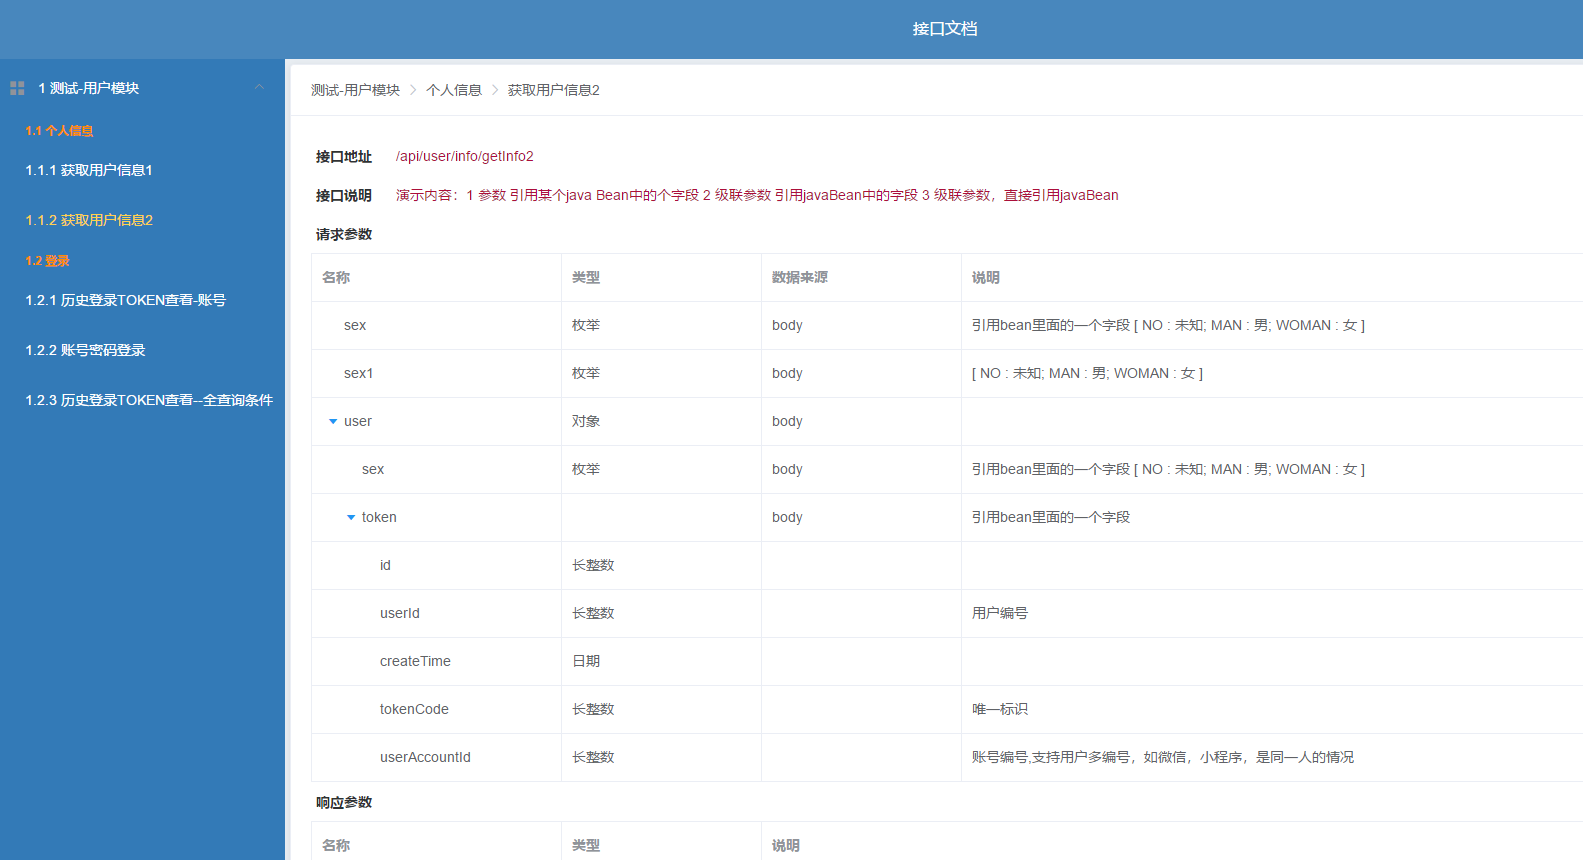
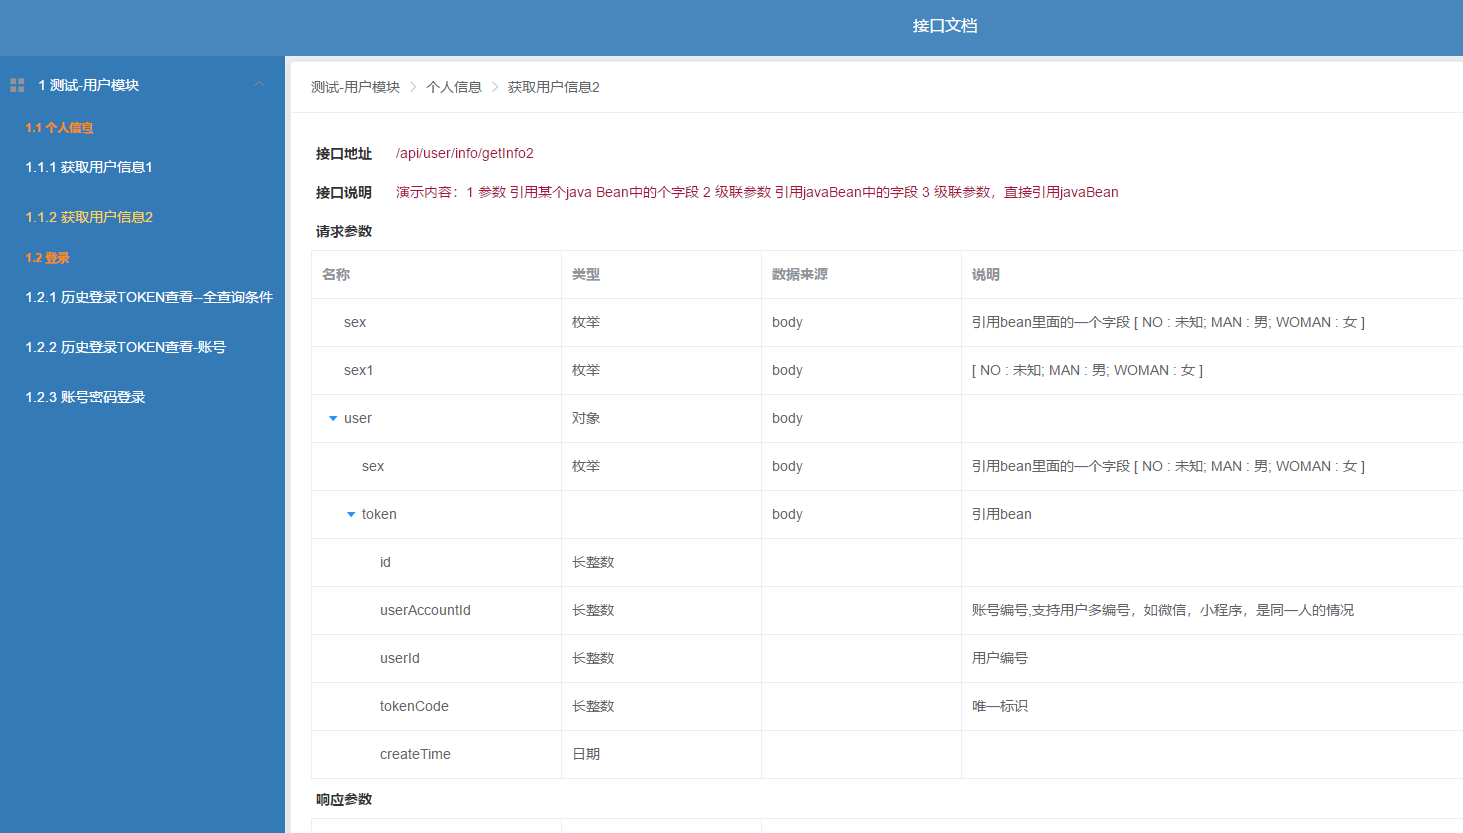
md修改

diff --git a/japi-demo/src/main/java/com/pm/biz/login/controller/UserController.java b/japi-demo/src/main/java/com/pm/biz/login/controller/UserController.java
@@ -32,7 +32,7 @@ public class UserController {
             , params = {@ApiParam(value = "$sex", type = UserInfo.class, note = "引用bean里面的一个字段")
             , @ApiParam(value = "sex1 ", type = UserSex.class)
             , @ApiParam(value = "user.$sex", type = UserInfo.class, note = "引用bean里面的一个字段")
-            , @ApiParam(value = "user.token", type = UserToken.class, note = "引用bean里面的一个字段")})
+            , @ApiParam(value = "user.token", type = UserToken.class, note = "引用bean")})
     @PostMapping(value = "/getInfo2")
     public ResultEntity<Long[]> getInfo2(@RequestBody JSONObject jsonObject) throws Exception {
         return ResultEntity.success();

diff --git a/README.md b/README.md
@@ -1,26 +1,45 @@
 
->启动之前分析了swagger2，功能非常非常强大，比较偏向于rest风格，但不太满足公司项目的需求：
+>######启动之前分析了swagger2，功能非常非常强大，比较偏向于rest风格，但不太满足公司项目的需求：
 - 1 code通过http status来表示，而不是在response body 的json中标识
 - 2 rest要求并期望用户定义实体，而项目中往往一个参数只有一个id和name，参数太少不太愿意构建实体
 - 3 如果不定义实体，无法描述再swagger的ApiParam中描述{name:李老师,address:{city:,prov:}}结构信息
 - 4 请求和返回格式，是需要添加共同的json格式，数据只是在json的data中传递，如{code:0,message:"",data{}};
 
 
->设计初衷是简单，适合项目需求的api辅助工具，大致如下：
+
+
+>######设计初衷是简单，适合项目需求的api辅助工具，大致如下：
 - 1 在开发一个接口时，通过注解方式将接口信息添加在接口上
 - 2 通过一个web模块，查询出所有api的json格式的描述数据
 - 3 通过ui在展示json的数据，供前端人员使用
 
-> 由于人力投入有限，目前只提供了html方式查看，spring mvc的接口开发。
+>######由于人力投入有限，目前只提供了html方式查看，spring mvc的接口开发。
 功能目前还不是很全面，但比较适合我们公司的大部分项目使用场景和方式。
 
 
 没有最好的框架，只有最适合的。如果你觉得用得顺手，并希望优化下去，欢迎加入..
 
->使用方式 
+>######使用方式*
 
- (```)
-     
+导入依赖
+
+ ```xml
+    <dependencies>
+        <dependency>
+            <groupId>io.github.tdwu</groupId>
+            <artifactId>japi-core</artifactId>
+            <version>0.0.1</version>
+        </dependency>
+        <dependency>
+            <groupId>io.github.tdwu</groupId>
+            <artifactId>japi-ui</artifactId>
+            <version>0.0.1</version>
+        </dependency>
+    </dependencies>    
+ ```
+ 
+ ```java
+      
     @RestController
     @RequestMapping("/api/user/info")
     @Api(value = "登录", tags = "演示", module = "测试-用户模块")
@@ -50,10 +69,10 @@
         public ResultEntity<IPageBean<UserToken>> selectPageBeanAll(@RequestBody JSONObject jsonObject) throws Exception {
             return ResultEntity.success();
         } 
-    }
- (```) 
+    }    
+ ```
  
- (```) 
+ ```java
         
     @RestController
     @RequestMapping("/api/user/info")
@@ -78,15 +97,19 @@
         @PostMapping(value = "/getInfo2")
         public ResultEntity<Long[]> getInfo2(@RequestBody JSONObject jsonObject) throws Exception {
             return ResultEntity.success();
-        }
-    
-    }
- (```) 
+        }    
+    }    
+ ``` 
  
+ >api接口文档访问地址：/japi/index.html
  
->效果
+>效果:
+
+![blockchain](./src/main/resources/images/1.png "")
+
+![blockchain](./src/main/resources/images/2.png "")
+
 ![blockchain](./src/main/resources/images/3.png "")
 
 ![blockchain](./src/main/resources/images/4.png "")
 
-![blockchain](./src/main/resources/images/5.png "")
